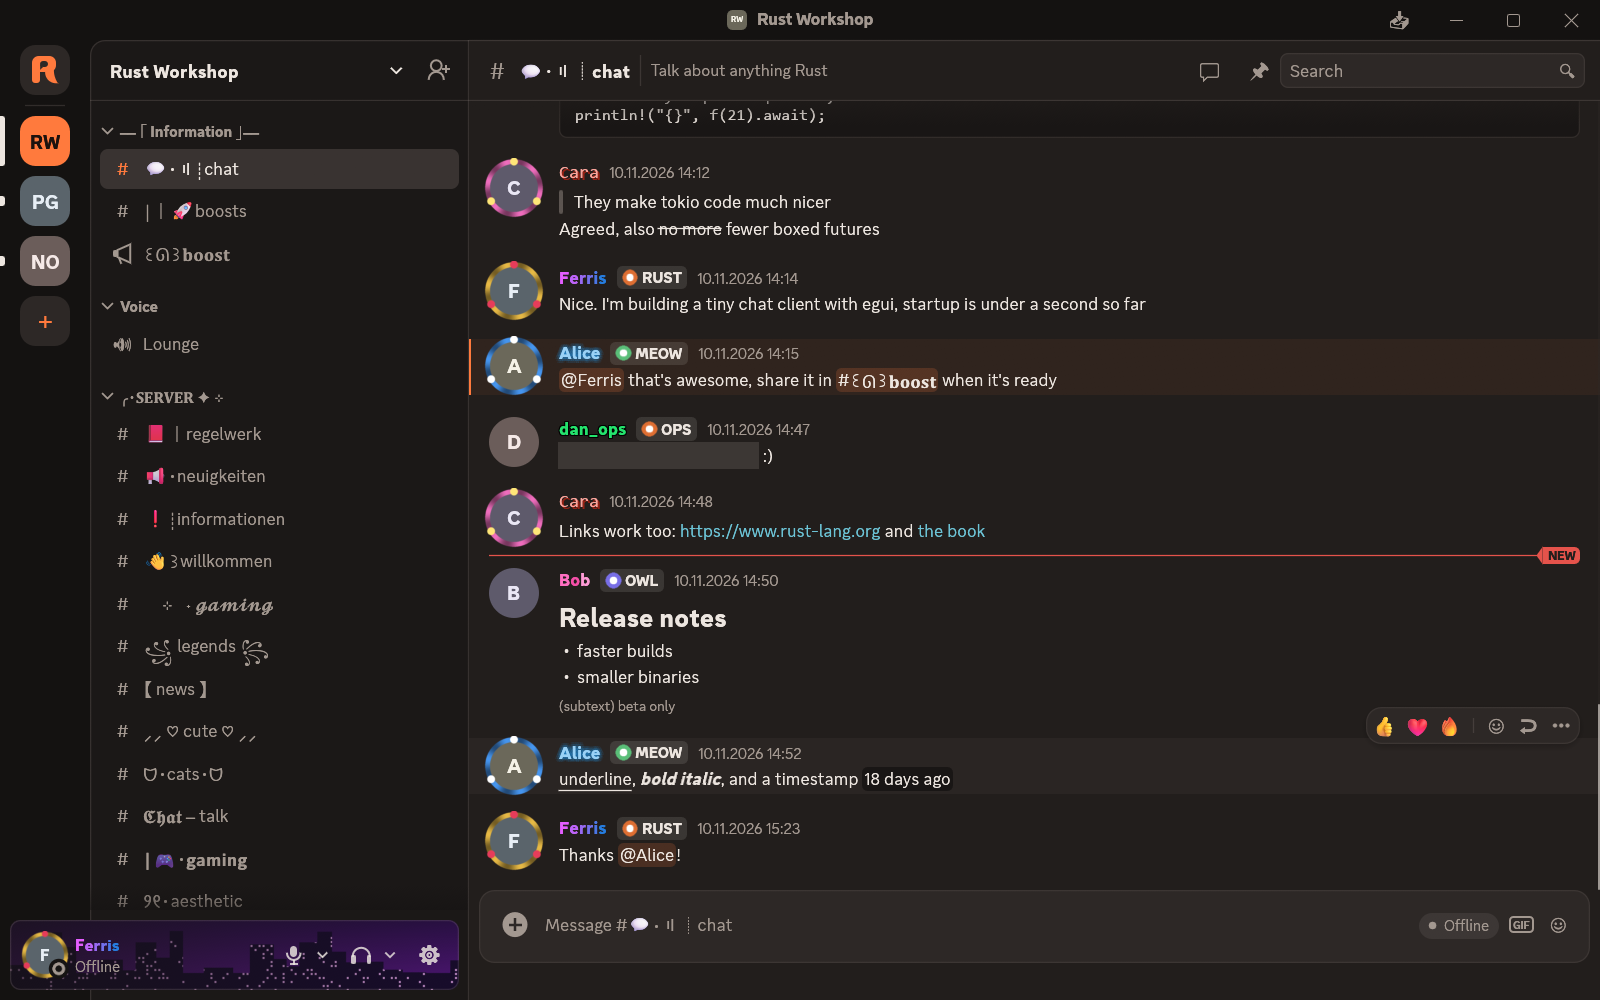
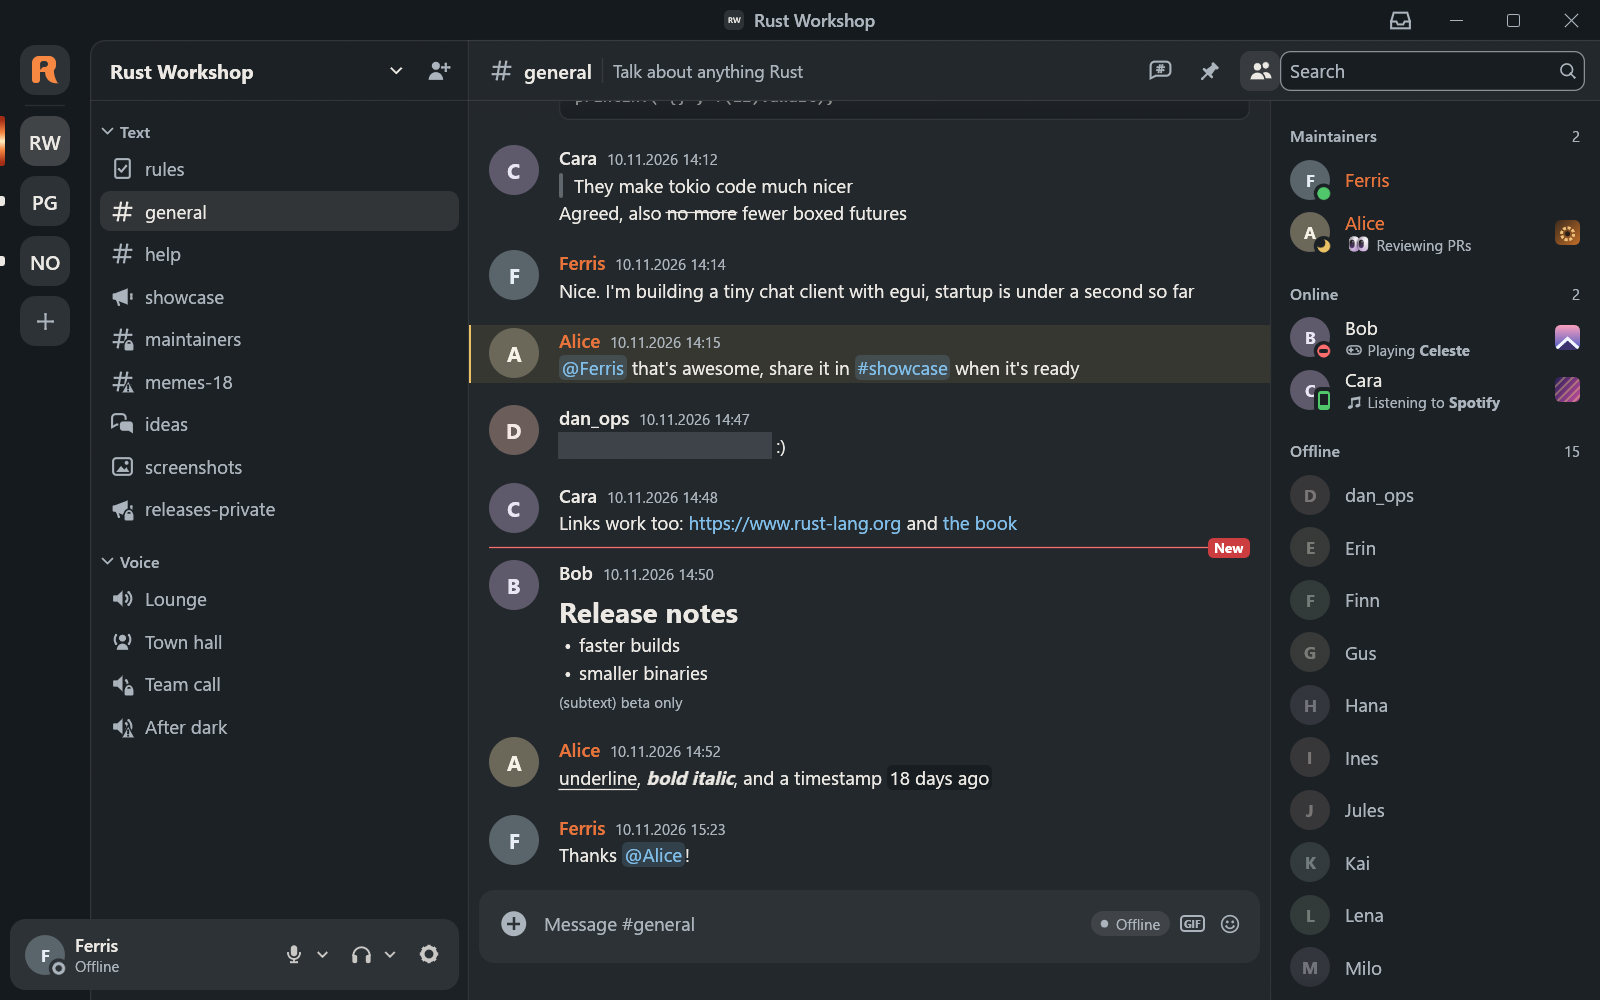
Update README and screenshots for the installer, tray and activities
New offline screenshots in the new look; README now covers the setup
(download/build, SmartScreen), close to tray, sign-in start, game
detection with activity privacy, the own icon set and fresh measurements.

diff --git a/README.md b/README.md
@@ -16,16 +16,16 @@
 </p>
 
 <p align="center">
-  <img src="docs/screenshots/main.png" width="820" alt="Rustcord main window with server bar, channels, chat and user panel">
+  <img src="docs/screenshots/main.png" width="820" alt="Rustcord main window: server bar, channel list with text, announcement, forum, media and voice channel icons, chat, and a member list showing a game, a detected game and Spotify">
 </p>
 
 <table>
   <tr>
-    <td><img src="docs/screenshots/profile.png" alt="Account popout with status menu and badges"></td>
+    <td><img src="docs/screenshots/profile.png" alt="Profile card with a game activity: art, details, party size and elapsed time"></td>
     <td><img src="docs/screenshots/plugins.png" alt="Settings page with the built-in plugins"></td>
   </tr>
   <tr>
-    <td align="center">Account popout, nameplate and avatar decoration</td>
+    <td align="center">Profile card with a game activity</td>
     <td align="center">Settings → Plugins (Vencord-style, built in)</td>
   </tr>
 </table>
@@ -64,6 +64,20 @@
 - Discord-web layout (own branding): server bar with folders and drag & drop, own title bar
   and window buttons, floating user panel, "new messages" bar, jump to present, message
   context menu.
+- Its own look (`docs/DESIGN.md`): steel-blue panes with ember orange only for the brand and
+  the main action, one type scale, and Rustcord's own vector icon set drawn in code. Channel
+  icons read like Discord's (`#` for text, a speaker for voice, megaphone, forum, media,
+  stage, rules) with lock and age-restricted variants; no icon files are copied from Discord.
+- Activities like Discord's: games with their art, party size and elapsed time, Spotify with
+  album art and a progress bar, streaming, watching; detected games show the game's icon, or
+  a controller when there is none. Member list, DMs, friends and profile cards show them.
+- Game detection (Windows): every 15 s Rustcord looks at the running programs and matches
+  them against Discord's list of detectable games and the games you added in Settings →
+  Registered games ("Add it!" picks an open window). Others see your game only while
+  Settings → Activity privacy → "Share detected activity" is on (synced with your account,
+  like in the official app); your added games stay on this PC.
+- Notification-area (tray) icon, close to tray, start when you sign in to Windows, and a
+  per-user installer (see [Install](#install)).
 - File uploads (button, drag & drop, paste), emoji and GIF pickers, `@ # :` autocomplete,
   typing indicator, online status + custom status, pins, search, mark unread.
 - Threads (sidebar rows, thread panel, create), forum/media channels (posts, tags, new post).
@@ -132,19 +146,27 @@ memory after sending them. The QR login uses a new RSA key per code that only li
 
 ## Install
 
-Run `Rustcord-Setup-<version>.exe`. It installs for your Windows user only (no administrator
-rights), like Discord: the app goes to `%LOCALAPPDATA%\Programs\Rustcord`, with a Start menu
-shortcut, an optional desktop shortcut and an entry in Settings → Apps. "Start Rustcord when I
-sign in" (on by default) starts it hidden in the notification area. Running the setup again
-updates Rustcord in place; a running Rustcord is asked to quit first.
+Get `Rustcord-Setup-<version>.exe` from this repository's Releases page once one is
+published, or build it yourself (see below). The setup is a single exe built from
+Rustcord's own code (about 23 MB with the app inside); no installer tools are involved.
+
+Run it. It installs for your Windows user only (no administrator rights), like Discord: the
+app goes to `%LOCALAPPDATA%\Programs\Rustcord`, with a Start menu shortcut, an optional
+desktop shortcut and an entry in Settings → Apps. "Open Rustcord when I sign in to Windows"
+(on by default) starts it hidden in the notification area. Running the setup again updates
+Rustcord in place; a running Rustcord is asked to quit first. `--silent` installs with the
+default options without a window.
 
 The setup is not code-signed, so Windows SmartScreen may say "Windows protected your PC".
 Select **More info**, then **Run anyway**.
 
 While Rustcord runs, its icon sits in the notification area: click it to open the window,
-right-click it for Mute, Deafen and Quit Rustcord. Closing the window keeps Rustcord running
-there (notifications and voice keep working); Settings → Windows Settings turns that off and
-sets the sign-in start. Starting Rustcord again brings the running window to the front.
+right-click it for Open Rustcord, Mute, Deafen and Quit Rustcord. Closing the window
+(the × in the title bar) only hides it: Rustcord keeps running there, so notifications and
+voice keep working. Settings → Windows settings has "Minimize to tray when I close the window"
+(turn it off to quit on close), "Open Rustcord when I sign in to Windows" and "Start
+minimized". Starting Rustcord again brings the running window to the front;
+`rustcord.exe --quit` quits the running one.
 
 To uninstall, use Settings → Apps → Rustcord → Uninstall. "Also delete my local data and sign
 out" also removes the settings, the cache and the saved login.
@@ -203,6 +225,9 @@ cargo run --example export_icons
 | Local profile overrides | `…\config\overrides\` (`overrides.toml` + image copies) | `…/overrides/` | `…/overrides/` |
 | Cache (snapshot, images) | `%LOCALAPPDATA%\Rustcord\cache\` | `~/.cache/rustcord/` | `~/Library/Caches/Rustcord/` |
 | Login token | Windows Credential Manager (generic credential `user-token.Rustcord`) | Secret Service | Keychain |
+| Added games, saved games list | `…\config\games.json`, `…\cache\detectable.tsv` | – | – |
+| Installed app (setup) | `%LOCALAPPDATA%\Programs\Rustcord\` | – | – |
+| Start at sign-in | `HKCU\Software\Microsoft\Windows\CurrentVersion\Run`, value `Rustcord` | – | – |
 
 The token is never written to a file or a log. Logging out deletes it from the credential
 store and deletes the cache. `RUSTCORD_HOME=<dir>` moves config and cache to `<dir>/config`
@@ -218,6 +243,7 @@ desktop_notifications = true
 send_read_acks = true         # mark viewed channels read on your account (syncs other devices)
 show_member_list = true
 animate_others = "hover"      # "always" | "hover" – animated avatars/emoji of others
+minimize_to_tray = true       # × hides the window to the notification area (Quit is in the tray menu)
 # client_build_number = 0     # optional: sent in the client properties
 # system_locale = "en-US"
 ```
@@ -272,11 +298,12 @@ Settings → Local profile: pick any image/GIF as your banner and a GIF, APNG or
 |---|---|---|---|---|
 | 1 – core | 44 ms | 163 ms | 94.5 MB | 0 % |
 | 2 – customization | 45 ms | 154 ms | 94.6 MB (104 MB with animated avatar + banner) | 0 % (7 % of one core with an always-animating avatar) |
-| 3 – logo & polish (final) | 30 ms (466 ms on the first, cold run) | 155 ms | 95.6 MB (103.6 MB with animated avatar + banner) | 0 % |
+| 3 – logo & polish | 30 ms (466 ms on the first, cold run) | 155 ms | 95.6 MB (103.6 MB with animated avatar + banner) | 0 % |
+| 4 – installer, tray, activities & new look | 161 ms (GL context ready) | 174 ms | 102.3 MB (87.6 MB private) | 0 % (game detection: ~16 ms CPU per 15 s scan) |
 
 Measured on a Ryzen 7 5825U, Windows 11, median of 5 runs. These runs had no network images
 loaded; with a live connection, avatars and attachments add to RAM (textures are capped at a
-24 MB budget and evicted when unused).
+12 MB budget and evicted when unused).
 
 ## Developer notes
 
